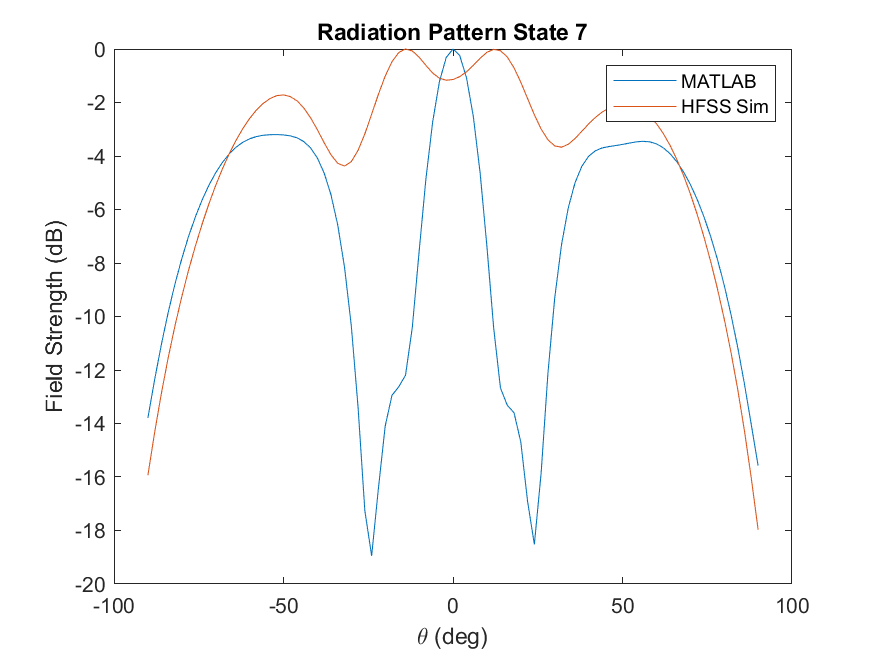
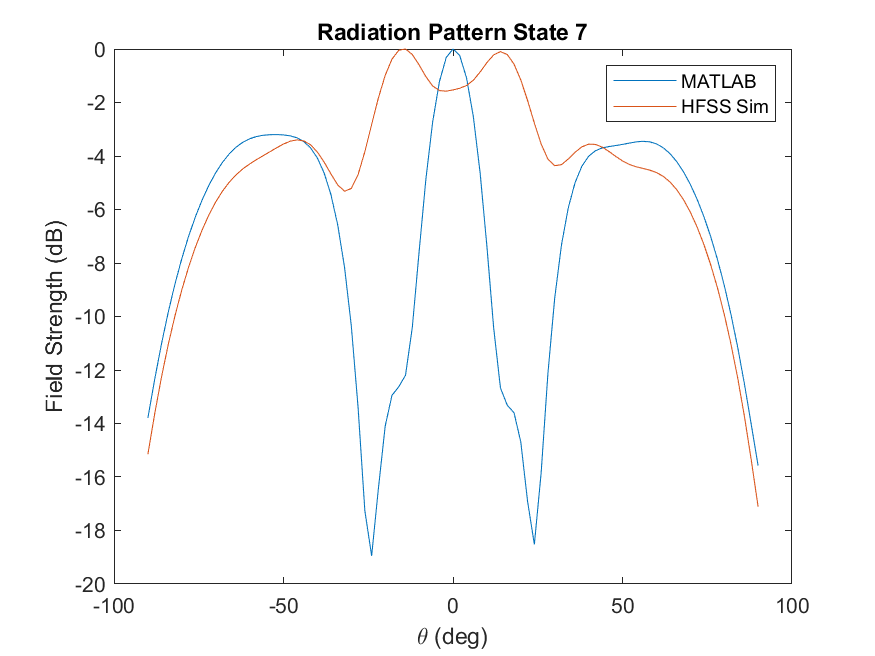
edited figs to look nicer

diff --git a/graph_fields.m b/graph_fields.m
@@ -26,6 +26,16 @@ end
 % COSINE ELEMENT cos(pi*(n-11)/21)*
 E_targ = E_targ./max(E_targ);
 
+%% PLOT ARRAY FACTOR ELEMENT AMPLITUDES
+% n = 1:21;
+% plot(n,cos(pi*(n-11)/21))
+% title("Array Factor Dipole Amplitudes")
+% xlabel("Unit Cell")
+% ylabel("Normalized Current Magnitude")
+% xlim([1,21])
+% saveas(gcf,"figures/cos_taper_amplitudes.png")
+%%
+
 I_E = 1;
 
 % [X_L,Z_LL,Z_LE,Z_EL,Z_EE] = loadMat("straight_ms_zmatrix/UnitCell_Meander_Array_1D_Array_Straight_ZMat_3-5mm_ms.s21p", Z_0, Z_targ, f, 10, 100, 21, 11, 0);
@@ -54,17 +64,15 @@ Z_in = Zm_EL/(-1i*diag(Xm_mat)-Zm_LL)*Zm_LE+Zm_EE;
 %% GRAPHING OUTPUT
 [Es_tot,Ss,Xs_vals] = forwardSolve(Xs_mat,Z_LL,Z_LE,Z_EL,Z_EE,I_E,Etheta);
 [Em_tot,Sm,Xm_vals] = forwardSolve(Xm_mat,Zm_LL,Zm_LE,Zm_EL,Zm_EE,I_E,Emtheta);
-% [Emo_tot,Smo,Xmo_vals] = forwardSolve("sym_const/meander_2mm_10mm_sym_optim.mat");
-plot(theta,20*log10(E_targ))
+plot(theta,20*log10(E_targ),"LineStyle",":","LineWidth",3)
 hold on
-plot(theta,20*log10(Es_tot))
-plot(theta,20*log10(Em_tot))
-% plot(theta,20*log10(Emo_tot))
-plot(theta_vals,20*log10(norm_vals))
+plot(theta,20*log10(Es_tot),"LineWidth",2)
+plot(theta,20*log10(Em_tot),"LineWidth",2)
+plot(theta_vals,20*log10(norm_vals),"LineWidth",2)
 hold off
-title("No Taper Target Meander Radiation Pattern")
+title("Cosine Taper Target Radiation Pattern")
 xlabel("\theta (deg)")
-ylabel("Field Strength (dB)")
+ylabel("Normalized Field Strength (dB)")
 legend("Target","MATLAB Straight MS","MATLAB Meander MS","HFSS Sim","Location","south")
 % legend("MATLAB","HFSS","Location","south")
-saveas(gcf,"figures/sym_const_rad_pattern_hfss_sim.png")
+saveas(gcf,"figures/sym_cos_rad_hfss_sim.png")

diff --git a/graph_phase.m b/graph_phase.m
@@ -31,13 +31,13 @@ t = tiledlayout(1,1);
 
 % Bottom Axis & Plot (Straight MS)
 ax1 = axes(t);
-h1 = plot(ax1, X_vals, S11_phase, "-k");
+h1 = plot(ax1, X_vals, S11_phase, "-k","LineWidth",2);
 xlabel("Reactance (\Omega)")
 ylabel("S11 Phase (deg)")
 
 % Top Axis & Plot (Meander MS)
 ax2 = axes(t);
-h2 = plot(ax2, Xm_vals, S11m_phase, '-r');
+h2 = plot(ax2, Xm_vals, S11m_phase, '-r',"LineWidth",2);
 ax2.XAxisLocation = 'top';
 ax2.Color = 'none';
 

diff --git a/rad_field_test_optim.m b/rad_field_test_optim.m
@@ -54,7 +54,7 @@ for i = 1:10
 end
 
 % Import HFSS Graph
-fields_data = readtable("test/optimized_test_fields.csv");
+fields_data = readtable("test/optimized_const_test_fields.csv");
 fields_data_arr = table2array(fields_data);
 theta_vals = fields_data_arr(:,1);
 norm_vals = zeros(91,10);

diff --git a/export_Cvals.m b/export_Cvals.m
@@ -2,7 +2,7 @@
 X = 60;
 f = 1e10;
 w = 2*pi*f;
-C = 1 / (w*X);
+C = 1 / (w*X) * 1e12;
 
 
 % 1. Open the script file
